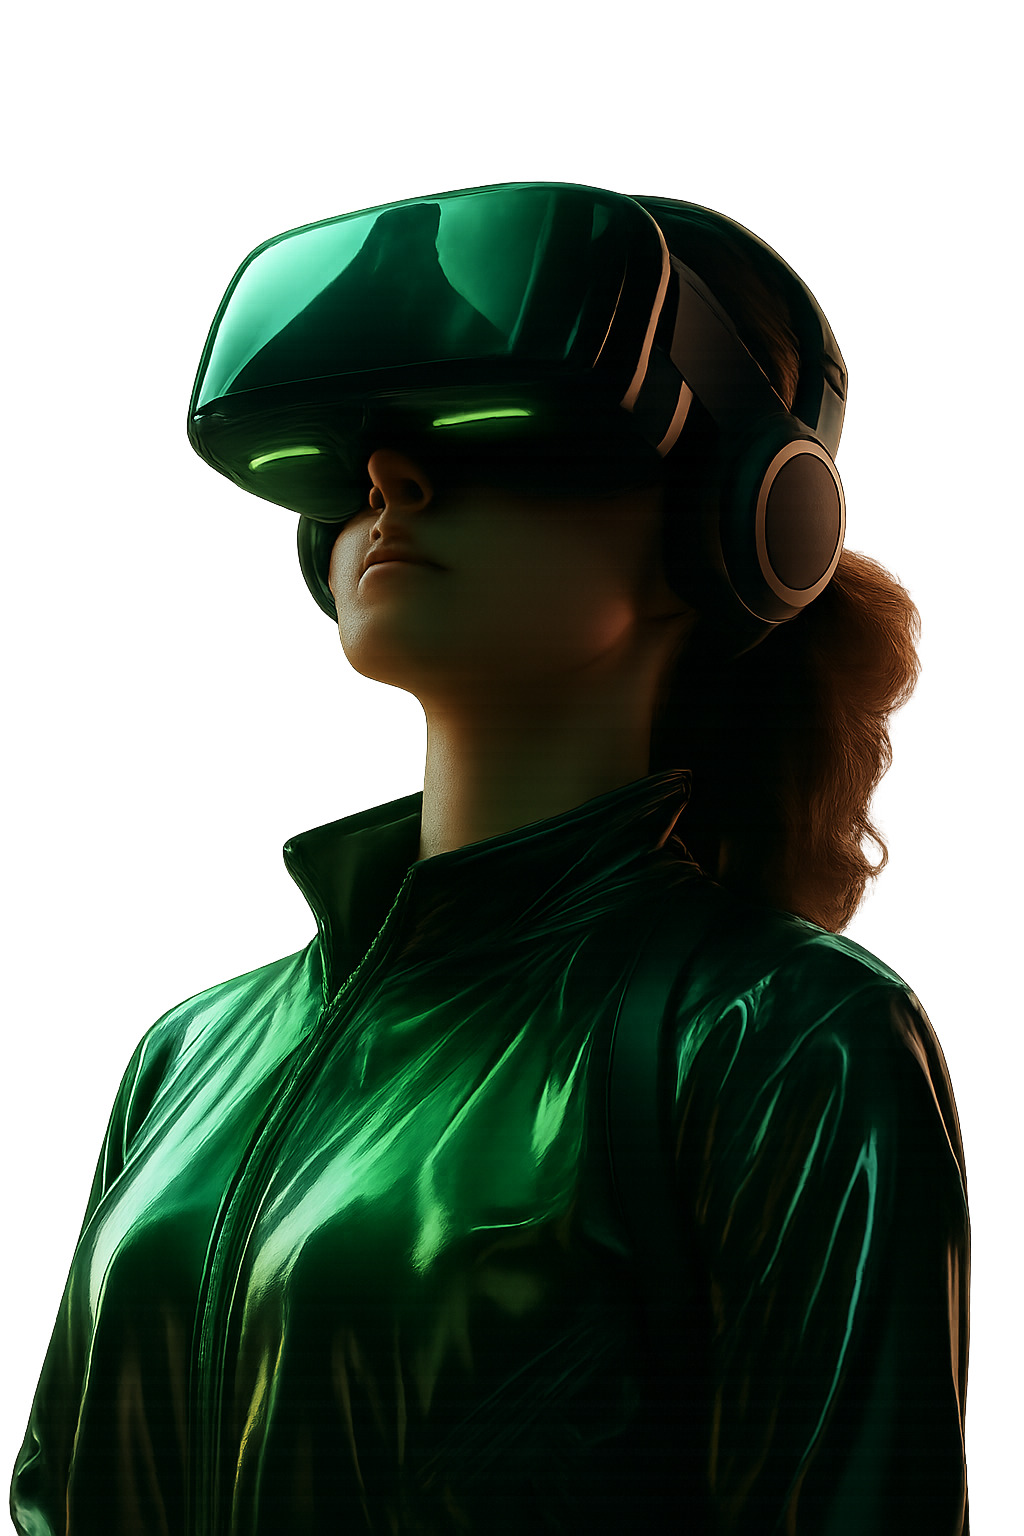
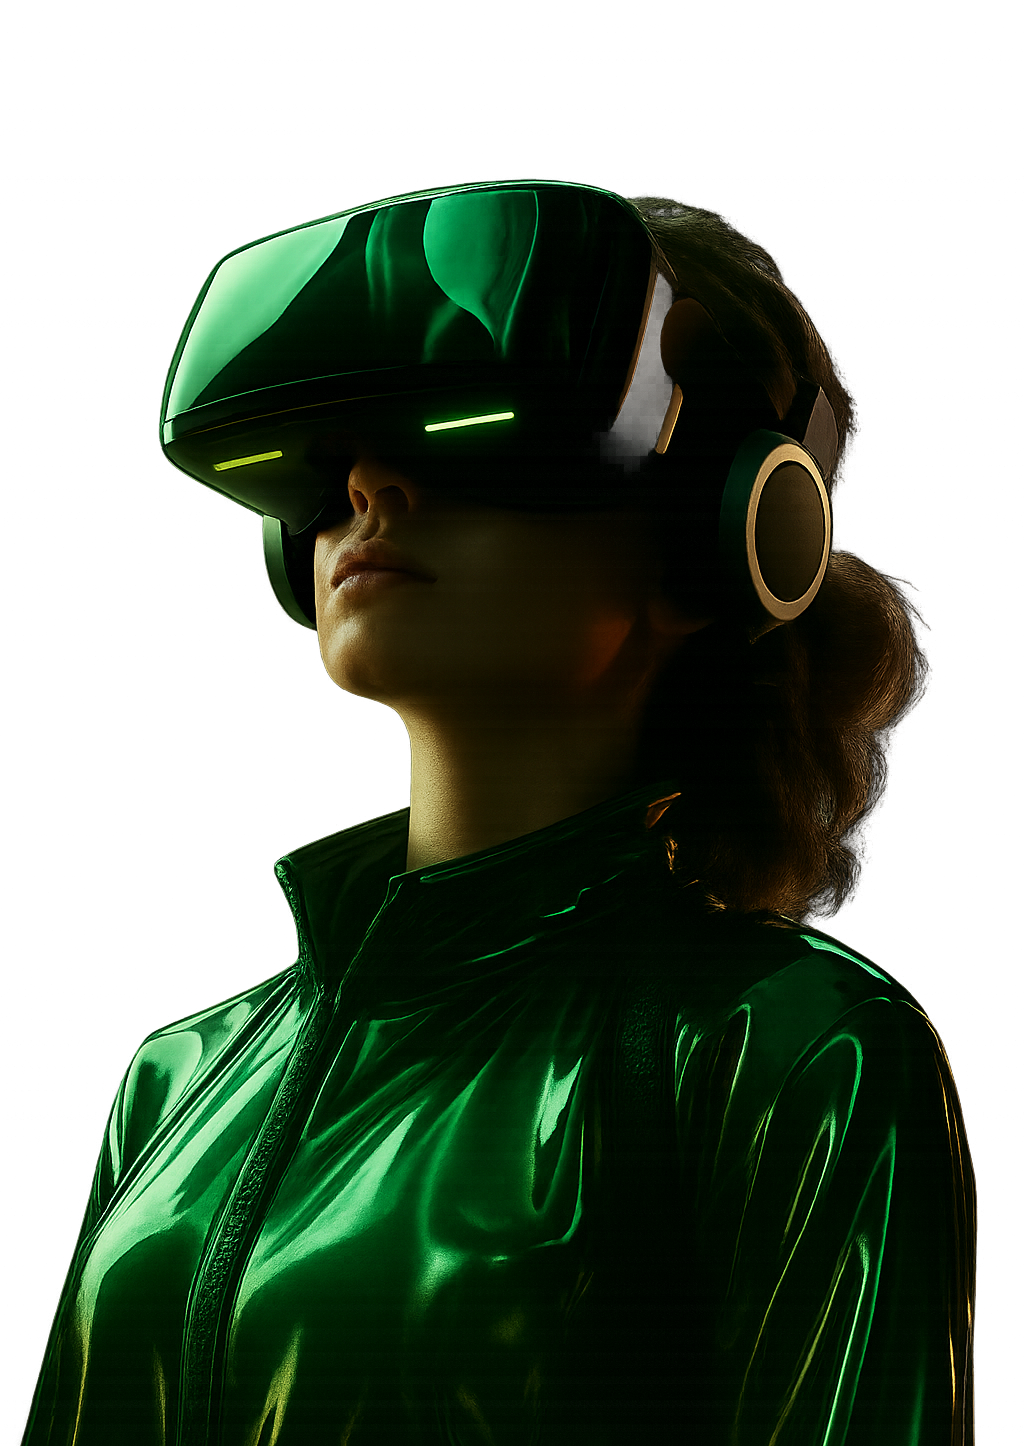
hero slider update choisir craft

Changed region(s): [[0.0, 0.0934, 0.9688, 1.0], [0.625, 0.529, 0.6875, 0.5913], [0.3125, 0.9959, 0.3438, 1.0]]

diff --git a/app/components/HomePage.tsx b/app/components/HomePage.tsx
@@ -137,7 +137,7 @@ export default function HomePage() {
           {/* Right Content: IMAGE FIRST on Mobile */}
           <div className="relative h-[500px] lg:h-[600px] w-full flex items-center justify-center order-1 lg:order-2">
             <div className="absolute w-[350px] h-[350px] md:w-[450px] md:h-[450px] bg-green-500 rounded-full top-1/2 left-1/2 transform -translate-x-1/2 -translate-y-1/2"></div>
-            <div className="mt-[-50px] lg:mt-[-120px] relative z-10 h-full flex items-end justify-center">
+            <div className="mt-[-20px] lg:mt-[-120px] relative z-10 h-full flex items-end justify-center">
               <img
                 src="/hero-slider.png"
                 alt="Software Developer"
@@ -180,7 +180,7 @@ export default function HomePage() {
           </div>
 
           {/* Left Content: TEXT SECOND on Mobile */}
-          <div className="space-y-8 z-10 pt-10 lg:pt-0 order-2 lg:order-1">
+          <div className="mt-[-60px] space-y-8 z-10 pt-10 lg:pt-0 order-2 lg:order-1">
             <h1 className="text-5xl md:text-7xl font-extrabold text-slate-900 leading-[1.15] tracking-tight">
               Future-Ready <br />
               Software <br />
